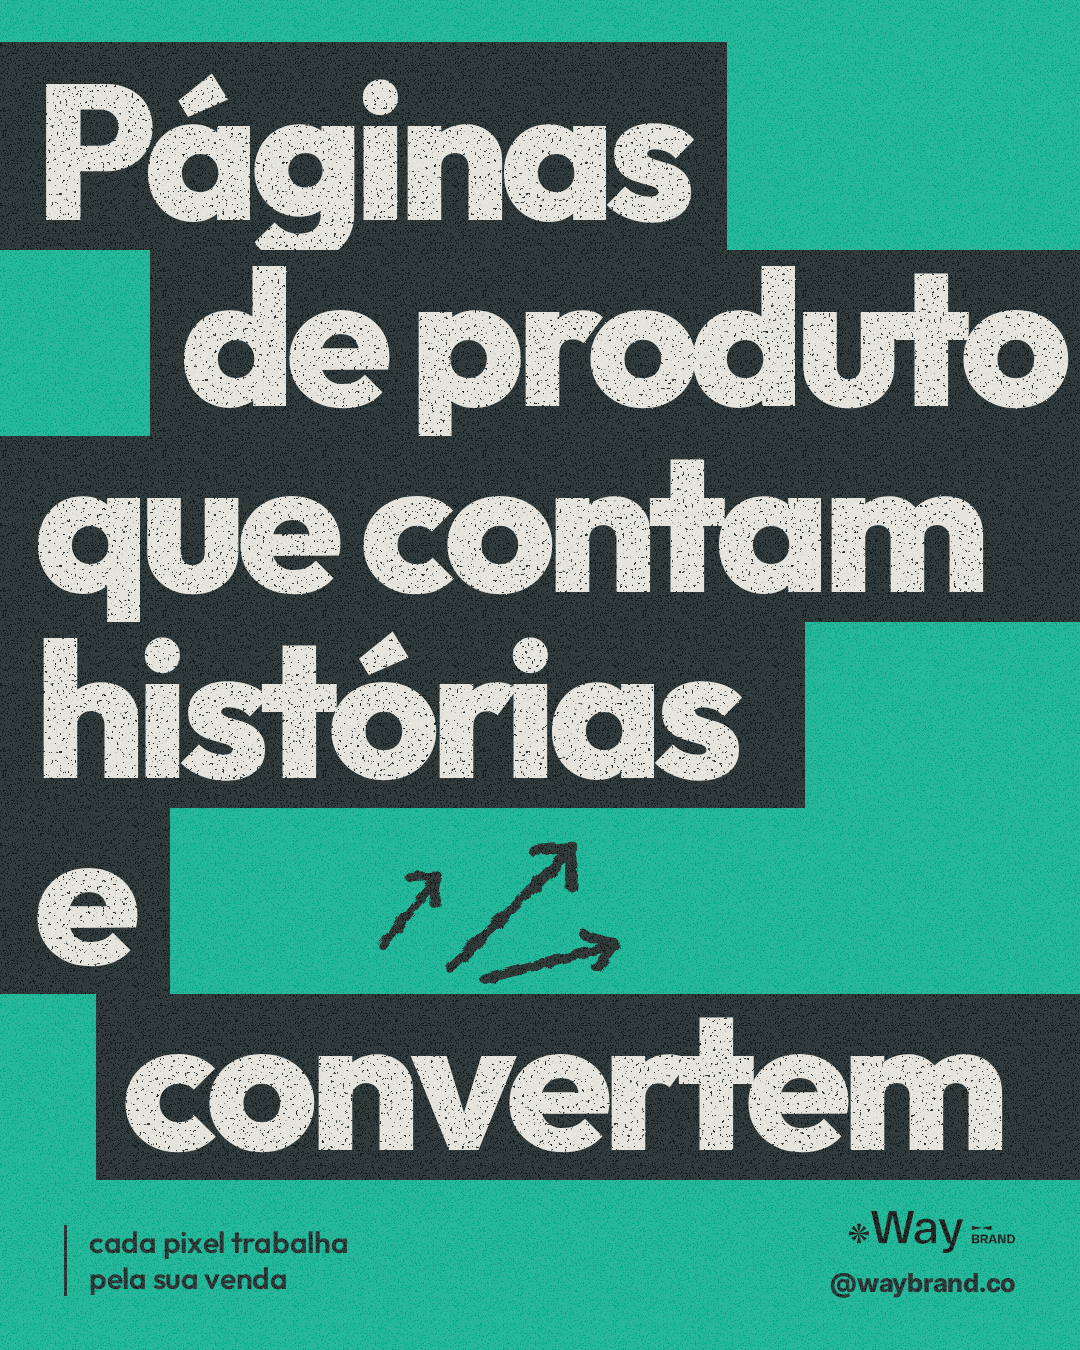
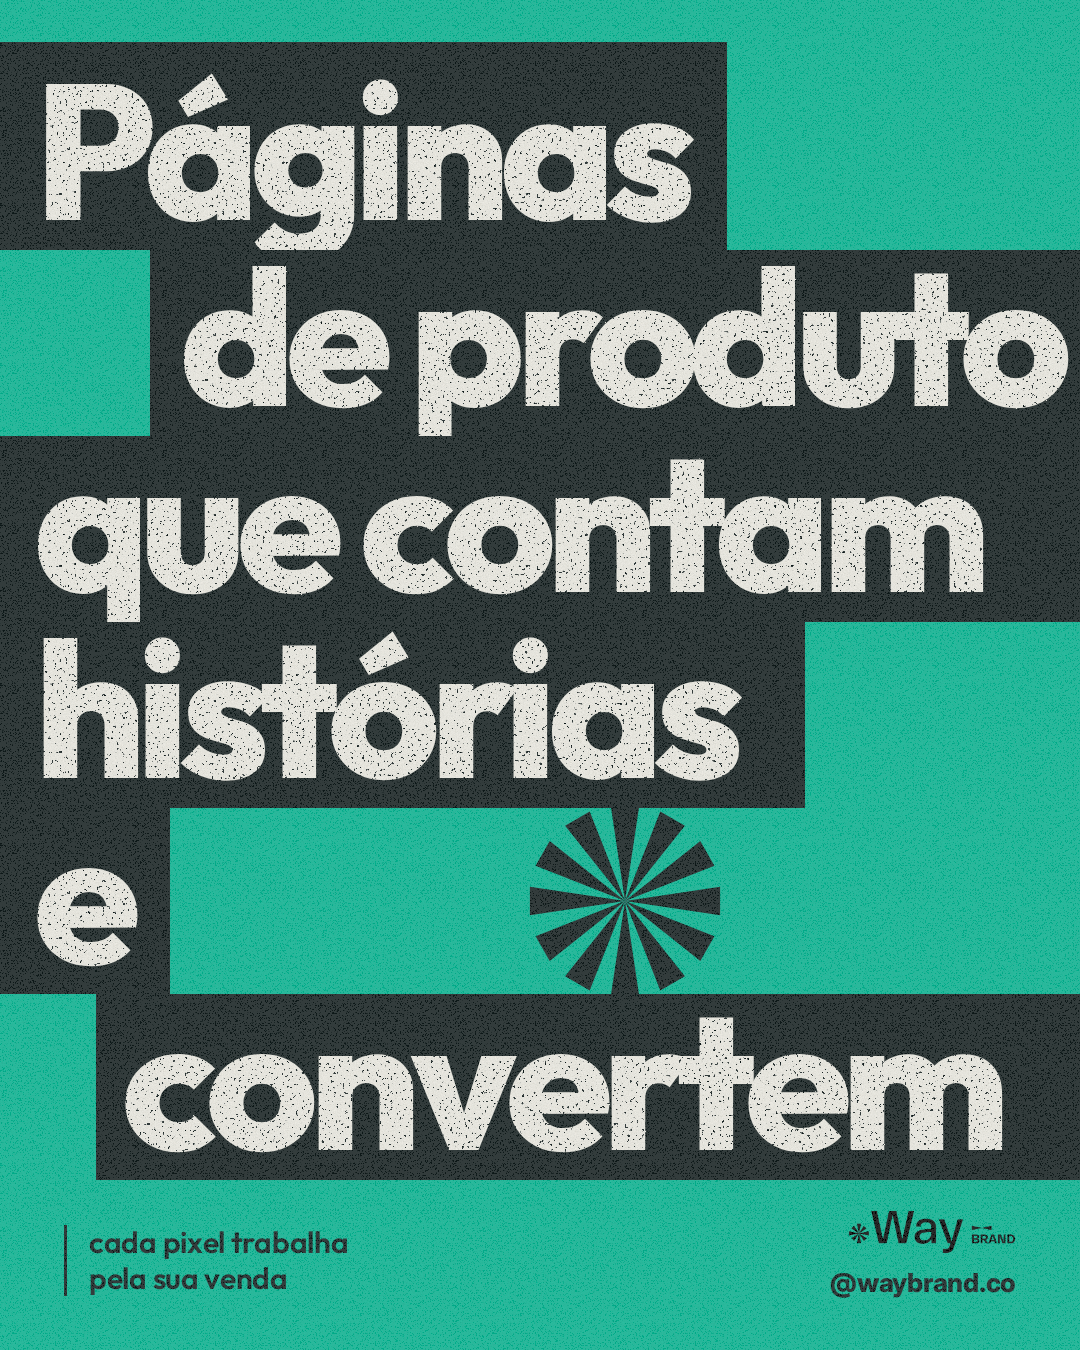
Troca as setas pelo símbolo da Way no post Páginas que convertem
Claude-Session: https://claude.ai/code/session_016sUdgHHfxU1Scirg6wMBYZ

diff --git a/instagram/paginas-que-convertem/index.html b/instagram/paginas-que-convertem/index.html
@@ -18,8 +18,8 @@
   .row .t{position:absolute;top:50%;transform:translateY(-54%);white-space:nowrap;
     font-weight:800;font-size:var(--fs);letter-spacing:-.05em;line-height:1;color:var(--paper);filter:url(#rough)}
 
-  /* setas rabiscadas no bloco verde */
-  .arrows{position:absolute;filter:url(#brush)}
+  /* símbolo da Way no recorte verde */
+  .mark{position:absolute}
 
   /* rodapé */
   .foot{position:absolute;left:64px;bottom:54px;border-left:3px solid var(--ink);padding-left:22px;
@@ -58,16 +58,9 @@
   <!-- as linhas são posicionadas pelo script abaixo -->
   <div id="rows"></div>
 
-  <svg class="arrows" id="arrows" width="620" height="182" viewBox="-10 -10 380 215" preserveAspectRatio="xMidYMid meet" fill="none" stroke="#0C1818" stroke-linecap="round" stroke-linejoin="round">
-    <!-- seta 1 -->
-    <path d="M30 150 L92 72" stroke-width="11"/>
-    <path d="M62 70 L94 68 L90 100" stroke-width="11"/>
-    <!-- seta 2 (maior) -->
-    <path d="M110 176 L250 40" stroke-width="13"/>
-    <path d="M208 38 L254 34 L252 80" stroke-width="13"/>
-    <!-- seta 3 -->
-    <path d="M150 190 L300 150" stroke-width="11"/>
-    <path d="M268 138 L304 148 L282 176" stroke-width="11"/>
+  <svg class="mark" id="mark" width="200" height="200" viewBox="-104 -104 208 208" fill="#0C1818">
+    <!-- símbolo da Way (12 raios) no lugar das setas -->
+    <path d="M0 0L-14.8 -98.9L14.8 -98.9ZM0 0L36.7 -93.0L62.3 -78.3ZM0 0L78.3 -62.3L93.0 -36.7ZM0 0L98.9 -14.8L98.9 14.8ZM0 0L93.0 36.7L78.3 62.3ZM0 0L62.3 78.3L36.7 93.0ZM0 0L14.8 98.9L-14.8 98.9ZM0 0L-36.7 93.0L-62.3 78.3ZM0 0L-78.3 62.3L-93.0 36.7ZM0 0L-98.9 14.8L-98.9 -14.8ZM0 0L-93.0 -36.7L-78.3 -62.3ZM0 0L-62.3 -78.3L-36.7 -93.0Z"/>
   </svg>
 
   <div class="foot">cada pixel trabalha<br>pela sua venda</div>
@@ -86,7 +79,7 @@
     { t:'de produto',  from:150, end:1080,   pad:30 },
     { t:'que contam',  from:0,   end:1080,   pad:34 },
     { t:'histórias',   from:0,   end:'text', pad:34, extra:70 },
-    { t:'e',           from:0,   end:'text', pad:34, extra:40, arrows:true },
+    { t:'e',           from:0,   end:'text', pad:34, extra:40, mark:true },
     { t:'convertem',   from:96,  end:1080,   pad:26 },
   ];
   const wrap = document.getElementById('rows');
@@ -101,9 +94,9 @@
       row.append(bar, t); wrap.append(row);
       const right = l.end === 'text' ? l.from + l.pad + t.getBoundingClientRect().width + (l.extra || 40) : l.end;
       bar.style.left = l.from + 'px'; bar.style.width = (right - l.from) + 'px';
-      if (l.arrows) {
-        const a = document.getElementById('arrows');
-        a.style.left = (right + 30) + 'px'; a.style.top = (TOP + i*H + 2) + 'px';
+      if (l.mark) {
+        const a = document.getElementById('mark');
+        a.style.left = ((right + 1080) / 2 - 100) + 'px'; a.style.top = (TOP + i*H + (H - 200) / 2) + 'px';
       }
     });
     // faixa preta contínua acima da primeira linha, como na referência

diff --git a/instagram/paginas-que-convertem/LEGENDA-E-NOTAS.md b/instagram/paginas-que-convertem/LEGENDA-E-NOTAS.md
@@ -2,7 +2,7 @@
 
 Referência: pôster "make room for better ideas", com texto creme sobre faixas pretas e recortes coloridos.
 Adaptado para a Way: o laranja virou o verde `#00B490`, o preto virou `#0C1818` e o creme ficou `#F0EDE4`.
-Fonte Outfit ExtraBold, a geométrica gratuita mais parecida com a da referência. As setas indicam conversão.
+Fonte Outfit ExtraBold, a geométrica gratuita mais parecida com a da referência. No recorte verde ao lado do "e" entra o símbolo da Way (12 raios), desenhado em SVG no lugar das setas da referência.
 
 Para renderizar: `node render.mjs`. O texto das linhas fica no array `LINES` do `index.html`.
 
